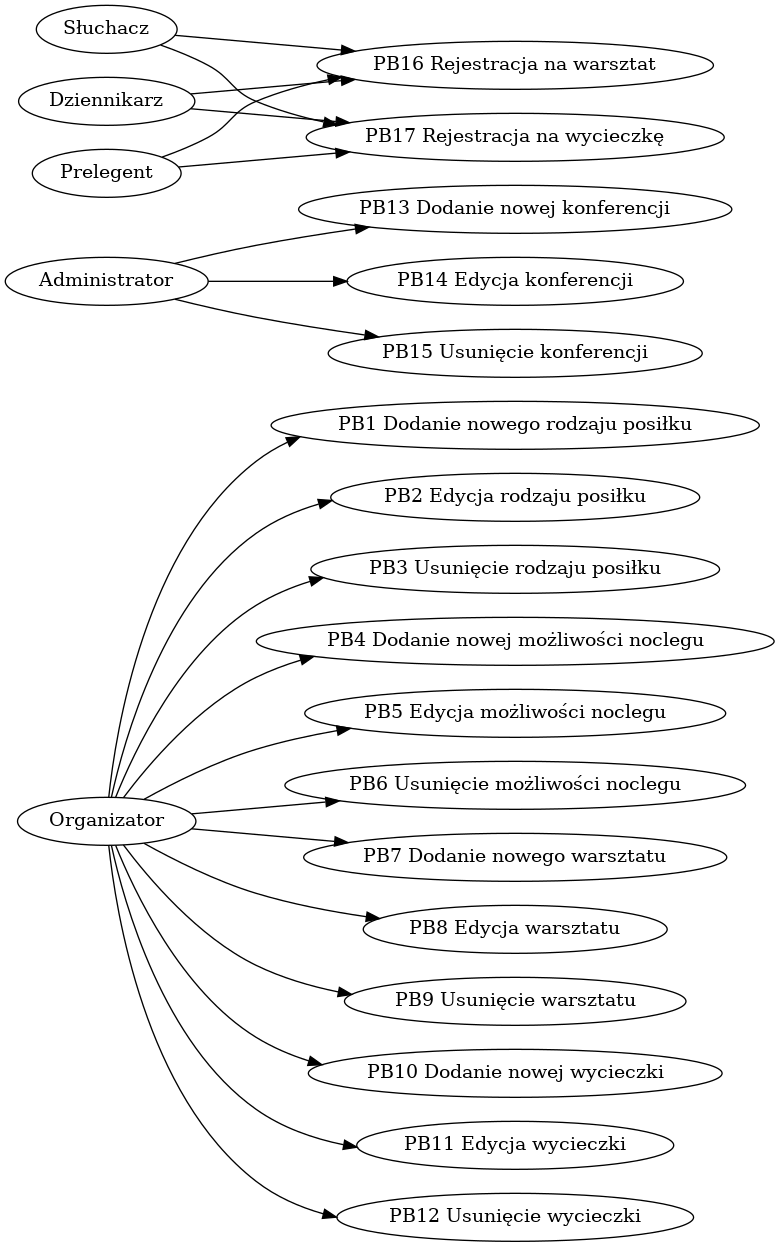
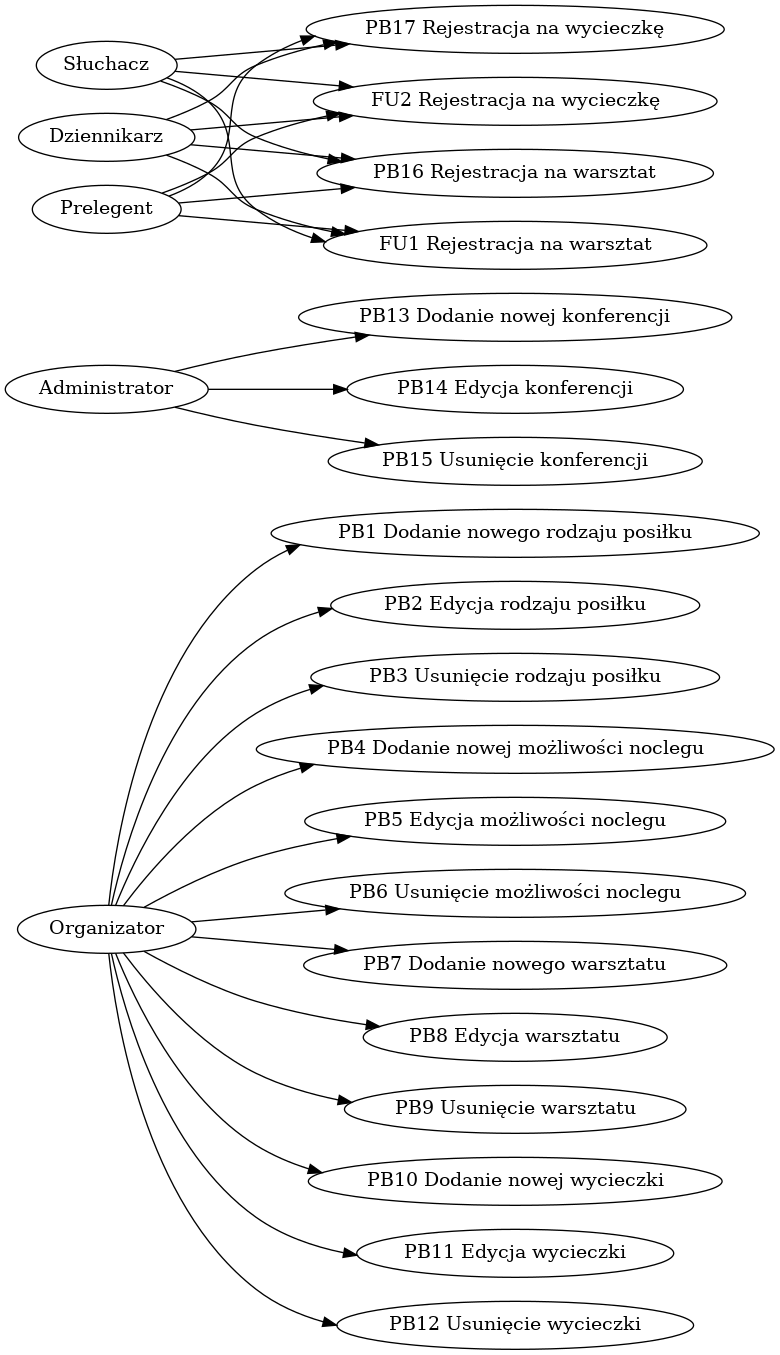
Changes so far

diff --git a/iop.html b/iop.html
@@ -301,6 +301,43 @@
 <li>Powrót do punktu 1.</li>
 </ol>
 <h2 id="przypadki-systemowe">Przypadki Systemowe</h2>
+<p>DPA</p>
+<h3 id="fu1-rejestracja-na-warsztat">FU1 Rejestracja na warsztat</h3>
+<p>Aktorzy: Słuchacz, Dziennikarz, Prelegent</p>
+<p><em>Scenariusz główny:</em></p>
+<ol style="list-style-type: decimal">
+<li>Uczestnik wybiera opcję &quot;Rejestracja na warsztat&quot;.</li>
+<li>System prezentuje listę warsztatów.</li>
+<li>Uczestnik lokalizuje warsztat na liście.</li>
+<li>Uczestnik zatwierdza.</li>
+<li>System generuje rachunek do zapłacenia.</li>
+<li>System zapisuje rezerwację.</li>
+</ol>
+<p><em>Scenariusz alternatywny 1:</em></p>
+<p>1-4. Jak w scenariuszu głównym</p>
+<ol start="5" style="list-style-type: decimal">
+<li>Miejsce zostało zajęte w międzyczasie.</li>
+<li>System wyświetla komunikat o błędzie.</li>
+<li>Powrót do punktu 1. DPA</li>
+</ol>
+<h3 id="fu2-rejestracja-na-wycieczkę">FU2 Rejestracja na wycieczkę</h3>
+<p>Aktorzy: Słuchacz, Dziennikarz, Prelegent</p>
+<p><em>Scenariusz główny:</em></p>
+<ol style="list-style-type: decimal">
+<li>Uczestnik wybiera opcję &quot;Rejestracja na wycieczkę&quot;.</li>
+<li>System prezentuje listę wycieczek.</li>
+<li>Uczestnik lokalizuje wycieczkę na liście.</li>
+<li>Uczestnik zatwierdza.</li>
+<li>System generuje rachunek do zapłacenia.</li>
+<li>System zapisuje rezerwację.</li>
+</ol>
+<p><em>Scenariusz alternatywny 1:</em></p>
+<p>1-4. Jak w scenariuszu głównym</p>
+<ol start="5" style="list-style-type: decimal">
+<li>Miejsce zostało zajęte w międzyczasie.</li>
+<li>System wyświetla komunikat o błędzie.</li>
+<li>Powrót do punktu 1.</li>
+</ol>
 <h2 id="diagram">Diagram</h2>
 <p><img src=przypadki.png></p>
 </body>

diff --git a/gienierator.py b/gienierator.py
@@ -199,7 +199,6 @@ def RejestracjaNa(thing, aktorzy, aktor_gl):
     wybiera_opcje(aktor_gl)
     punkt('System prezentuje listę %s' % thing.dopelniacz_lm)
     punkt('%s lokalizuje %s na liście' % (aktor_gl, thing.biernik))
-    punkt('%s klika przycisk "Rejestracja" przy' % (aktor_gl, thing.biernik))
     p_zatw = punkt('%s zatwierdza' % aktor_gl)
     punkt('System generuje rachunek do zapłacenia')
     punkt('System zapisuje rezerwację')

diff --git a/iop.md b/iop.md
@@ -343,6 +343,52 @@ _Scenariusz alternatywny 1:_
 
 
 ## Przypadki Systemowe
+DPA
+
+
+### FU1 Rejestracja na warsztat
+
+Aktorzy: Słuchacz, Dziennikarz, Prelegent
+
+_Scenariusz główny:_
+
+1. Uczestnik wybiera opcję "Rejestracja na warsztat".
+2. System prezentuje listę warsztatów.
+3. Uczestnik lokalizuje warsztat na liście.
+4. Uczestnik zatwierdza.
+5. System generuje rachunek do zapłacenia.
+6. System zapisuje rezerwację.
+
+_Scenariusz alternatywny 1:_
+
+1-4. Jak w scenariuszu głównym
+
+5. Miejsce zostało zajęte w międzyczasie.
+6. System wyświetla komunikat o błędzie.
+7. Powrót do punktu 1.
+DPA
+
+
+### FU2 Rejestracja na wycieczkę
+
+Aktorzy: Słuchacz, Dziennikarz, Prelegent
+
+_Scenariusz główny:_
+
+1. Uczestnik wybiera opcję "Rejestracja na wycieczkę".
+2. System prezentuje listę wycieczek.
+3. Uczestnik lokalizuje wycieczkę na liście.
+4. Uczestnik zatwierdza.
+5. System generuje rachunek do zapłacenia.
+6. System zapisuje rezerwację.
+
+_Scenariusz alternatywny 1:_
+
+1-4. Jak w scenariuszu głównym
+
+5. Miejsce zostało zajęte w międzyczasie.
+6. System wyświetla komunikat o błędzie.
+7. Powrót do punktu 1.
 
 
 ## Diagram
